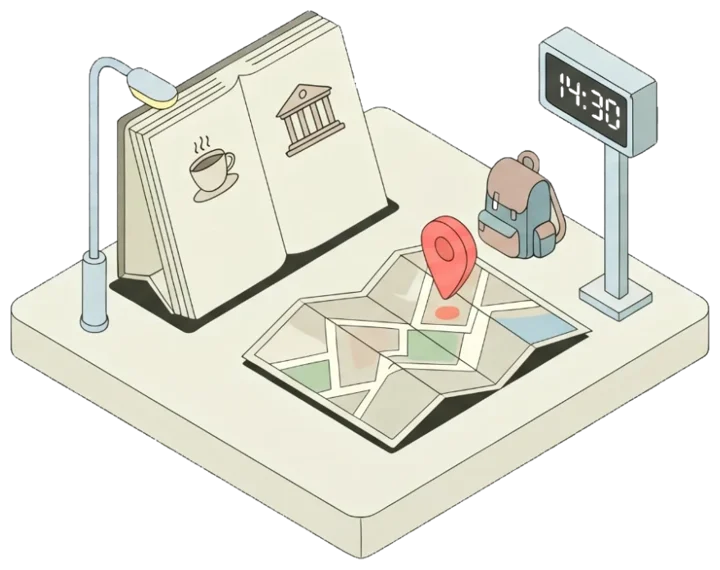
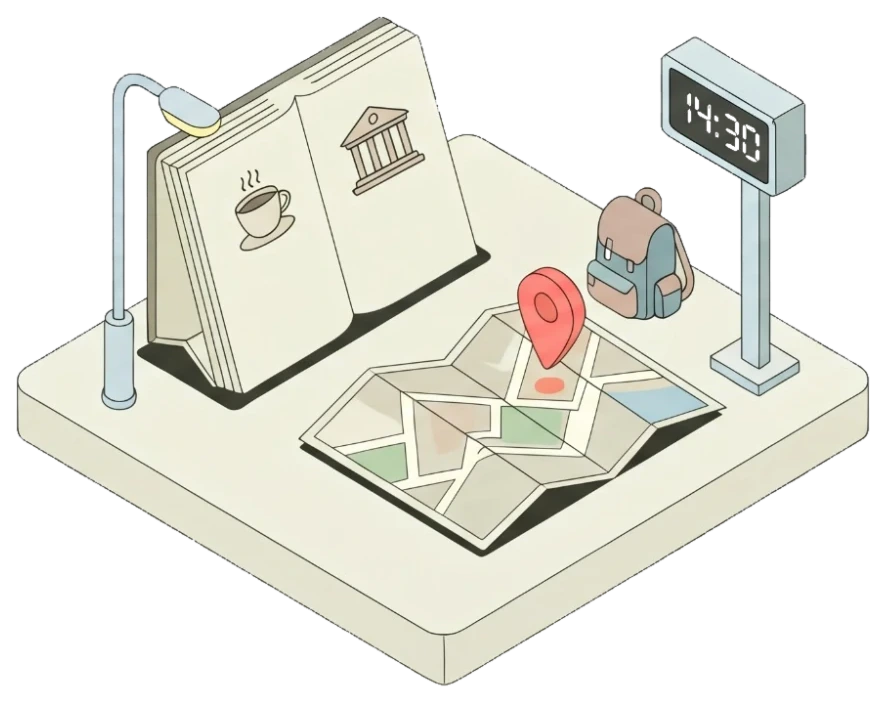
fix: landing illustrations at full resolution, served without recompression

diff --git a/app/src/components/marketing/frames.tsx b/app/src/components/marketing/frames.tsx
@@ -65,10 +65,11 @@ export function PhotoFrame({
 
 export function IllustrationFrame({ label, src }: { label: string; src?: string }) {
   if (src) {
-    // Transparent illustration, fitted into the same height so the three cards line up
+    // Transparent line art, fitted into the same height so the three cards line up.
+    // Served as-is (full-size, high-quality WebP): re-compressing blurs the fine outlines.
     return (
       <div className="relative h-[170px]">
-        <Image src={src} alt={label} fill sizes="(max-width: 768px) 90vw, 320px" className="object-contain" />
+        <Image src={src} alt={label} fill unoptimized className="object-contain" />
       </div>
     );
   }
